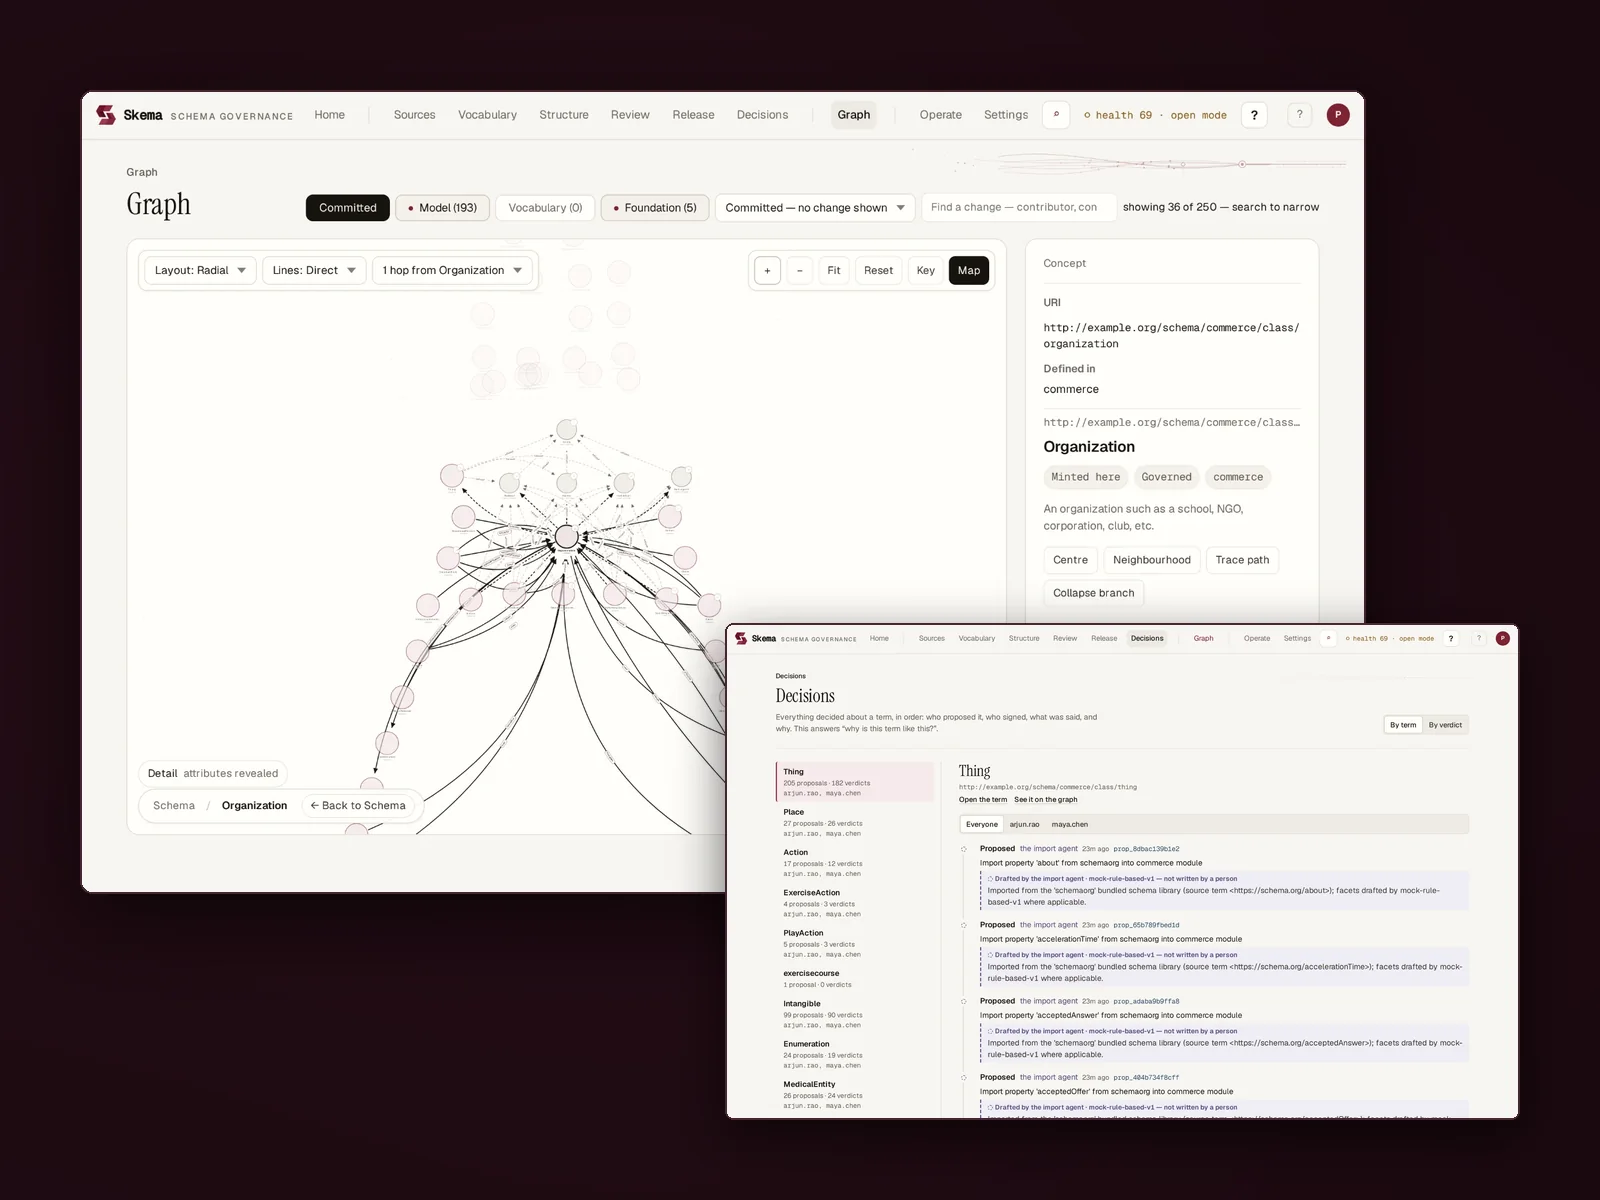
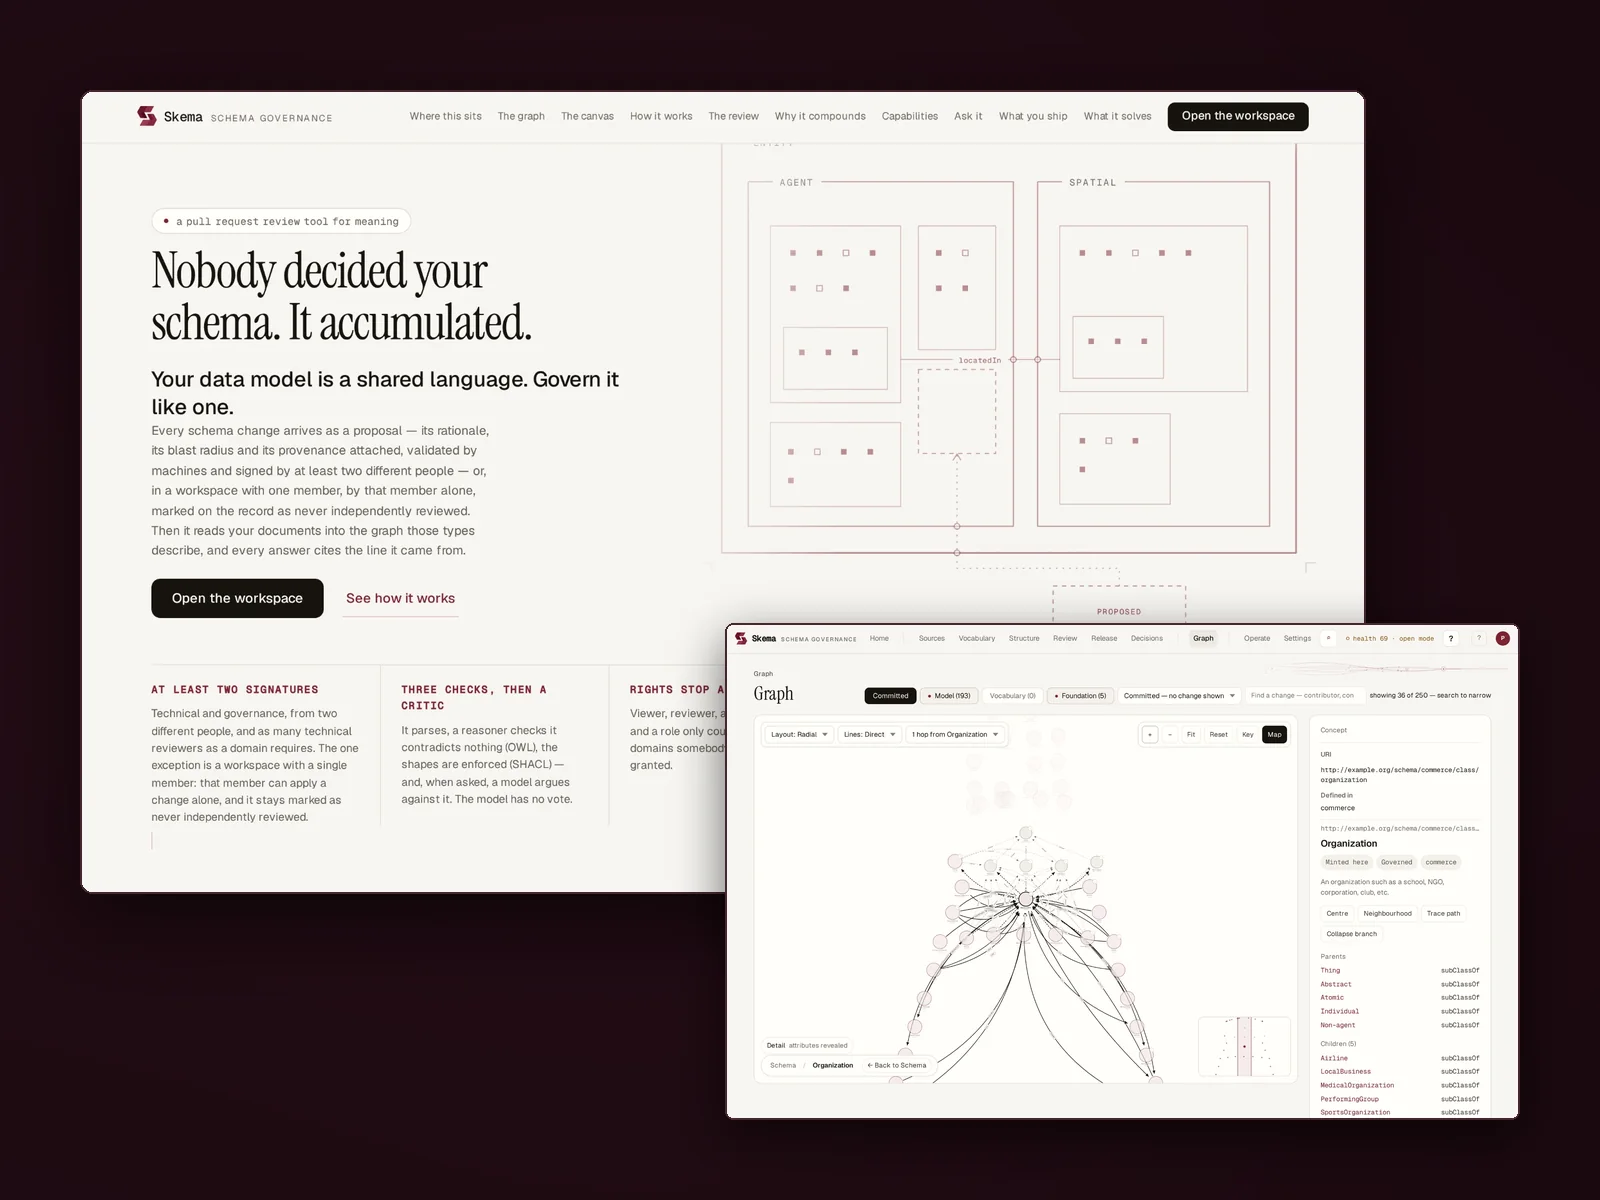
Work: Skema's landing page leads the collage
Landing page at 1/phi of the width, Graph at 1/phi of that, Decisions at
1/phi again; phones show the landing page with Graph.

Claude-Session: https://claude.ai/code/session_01VDgNsycECV6KdWC2ps4B74

diff --git a/src/content/work.ts b/src/content/work.ts
@@ -78,7 +78,7 @@ export const work: WorkEntry[] = [
     visual: {
       src: "/work/skema/collage.webp",
       srcSmall: "/work/skema/collage-4x3.webp",
-      alt: "Skema's graph of a schema around Organization, beside its decision log and a question put to the record.",
+      alt: "Skema's landing page — 'Nobody decided your schema. It accumulated.' — beside its graph view and its decision log.",
     },
   },
   { id: "work-02", index: "02", year: 2026, visibility: "private" },
